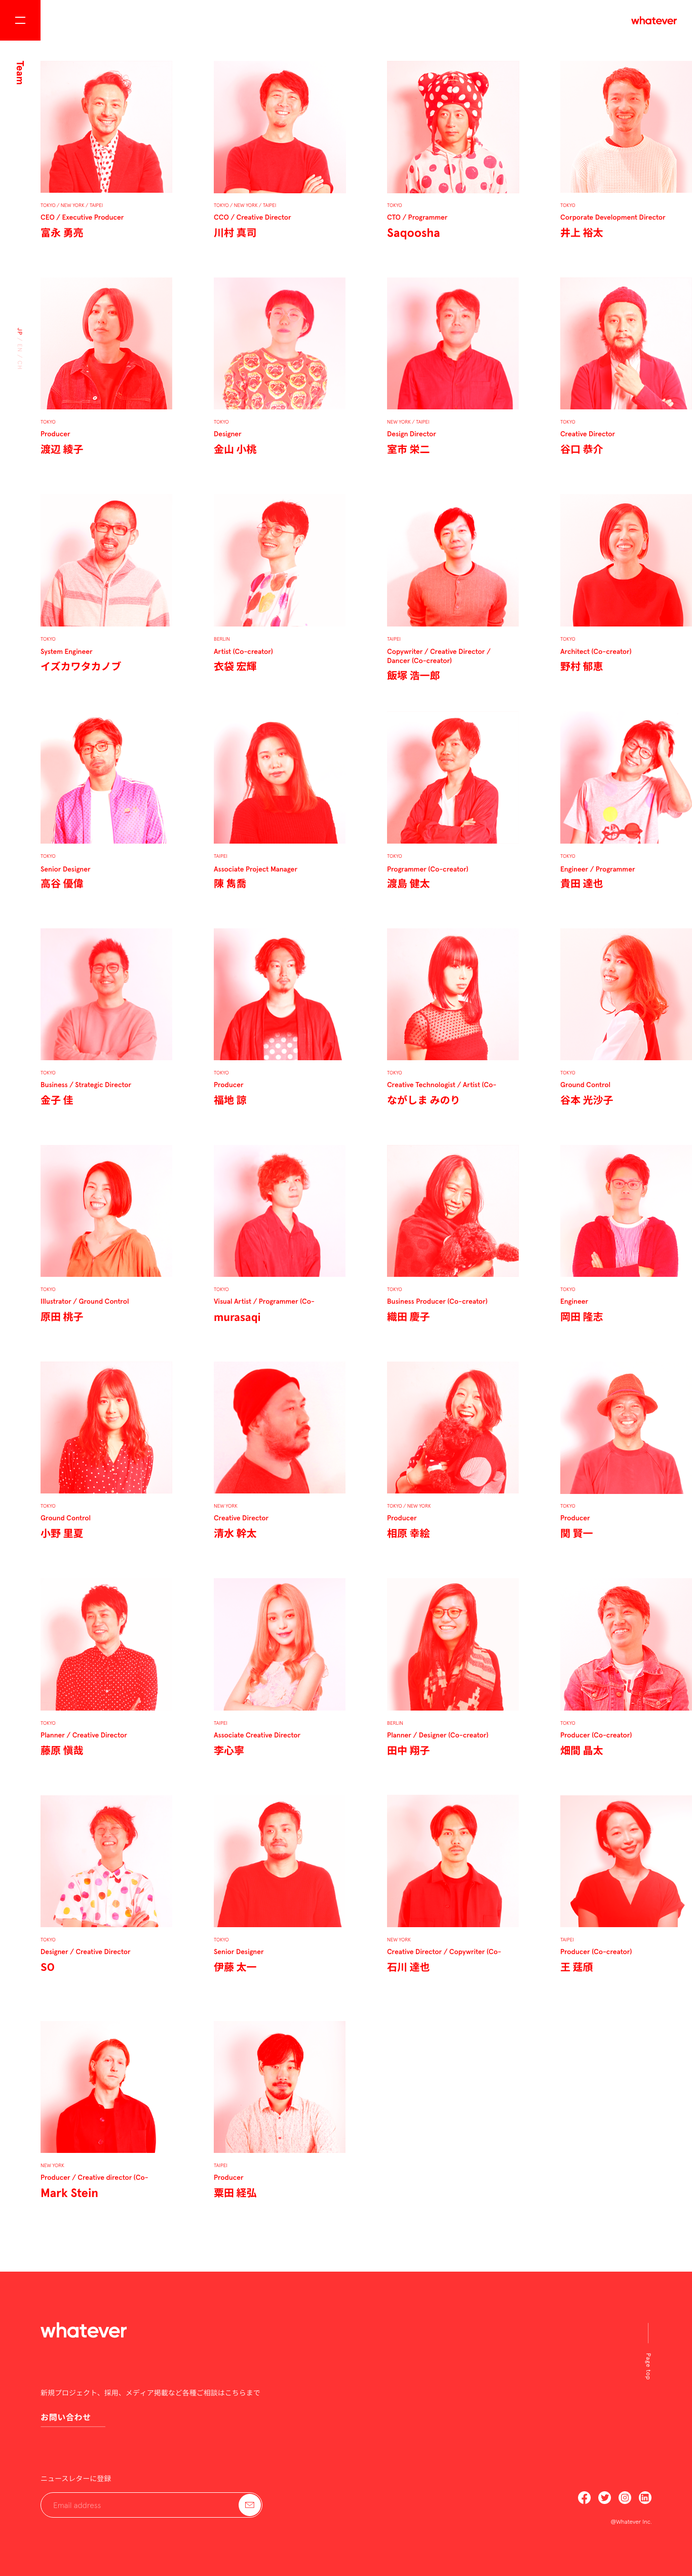
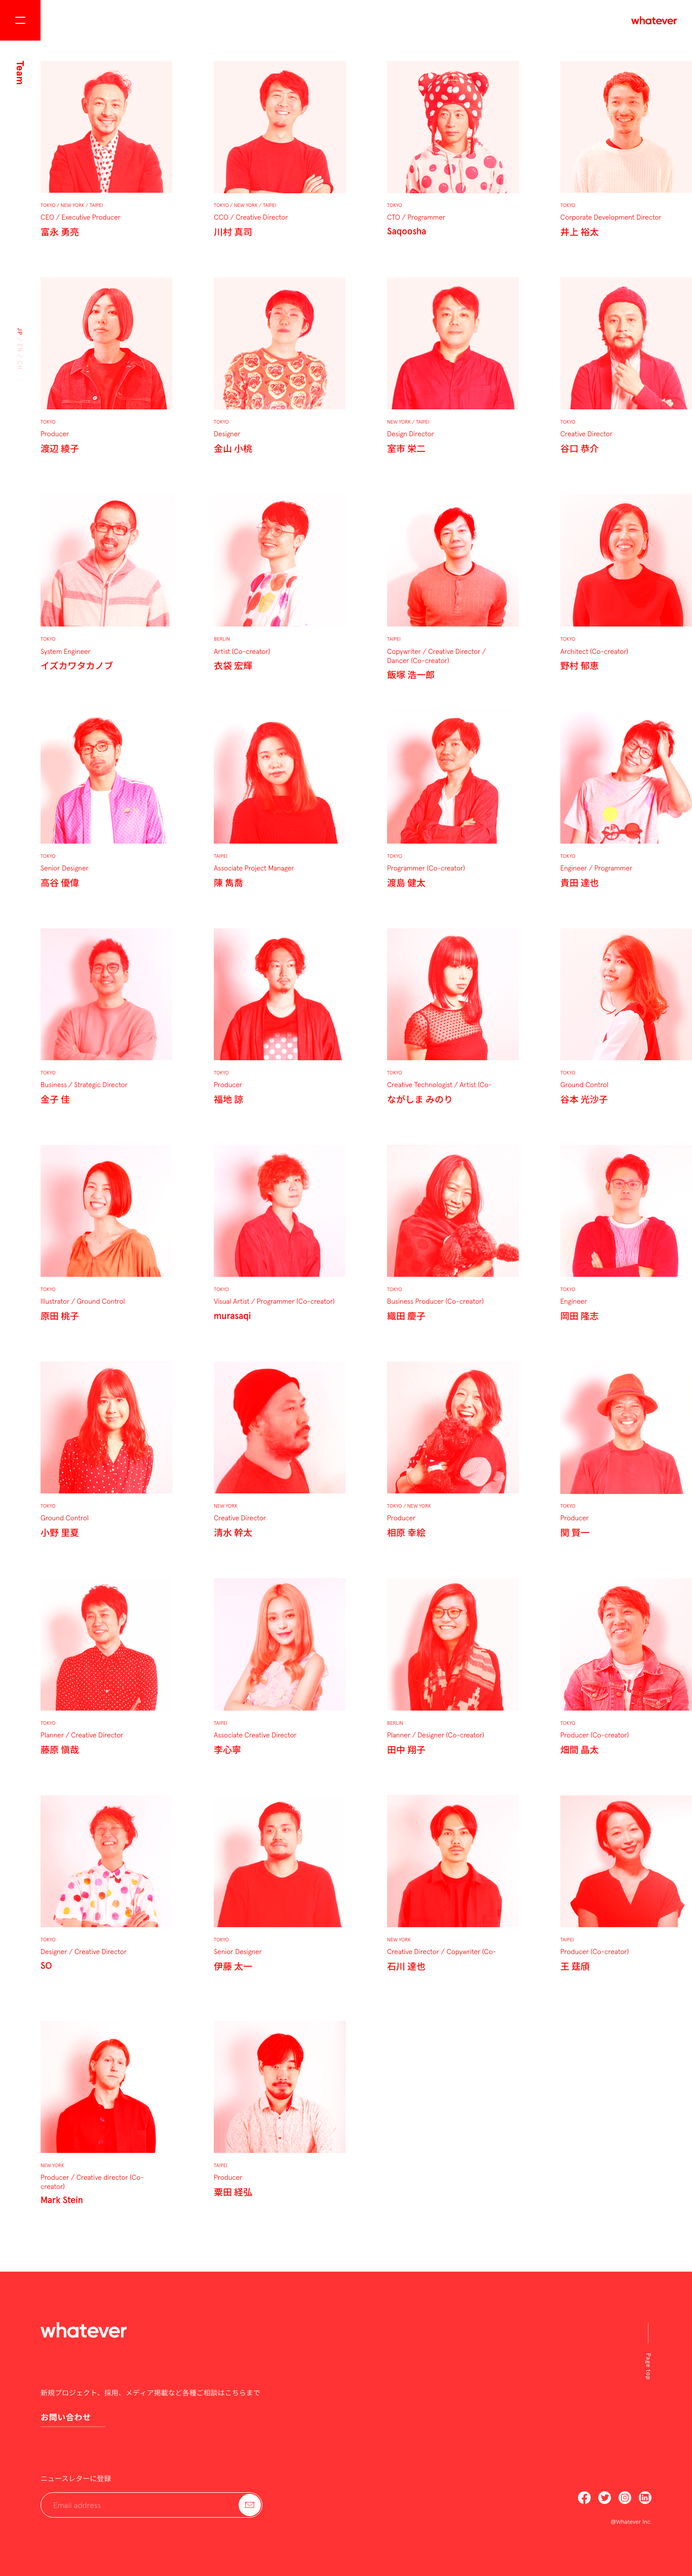
Team index

diff --git a/pages/team/index.tsx b/pages/team/index.tsx
@@ -45,14 +45,15 @@ const TeamIndex = ({ members }: { members: Member[] }) => (
         .title
           display inline-block
           font-size vwpx(14)
-          font-weight bold
+          font-weight 300
           margin-top vwpx(12)
         .name
           display inline-block
-          font-size vwpx(20)
+          font-size vwpx(18)
+          line-height vwpx(18)
           font-weight bold
           letter-spacing 0.05em
-          margin-top vwpx(8)
+          margin-top vwpx(14)
       `}</style>
     </div>
   </Layout>
